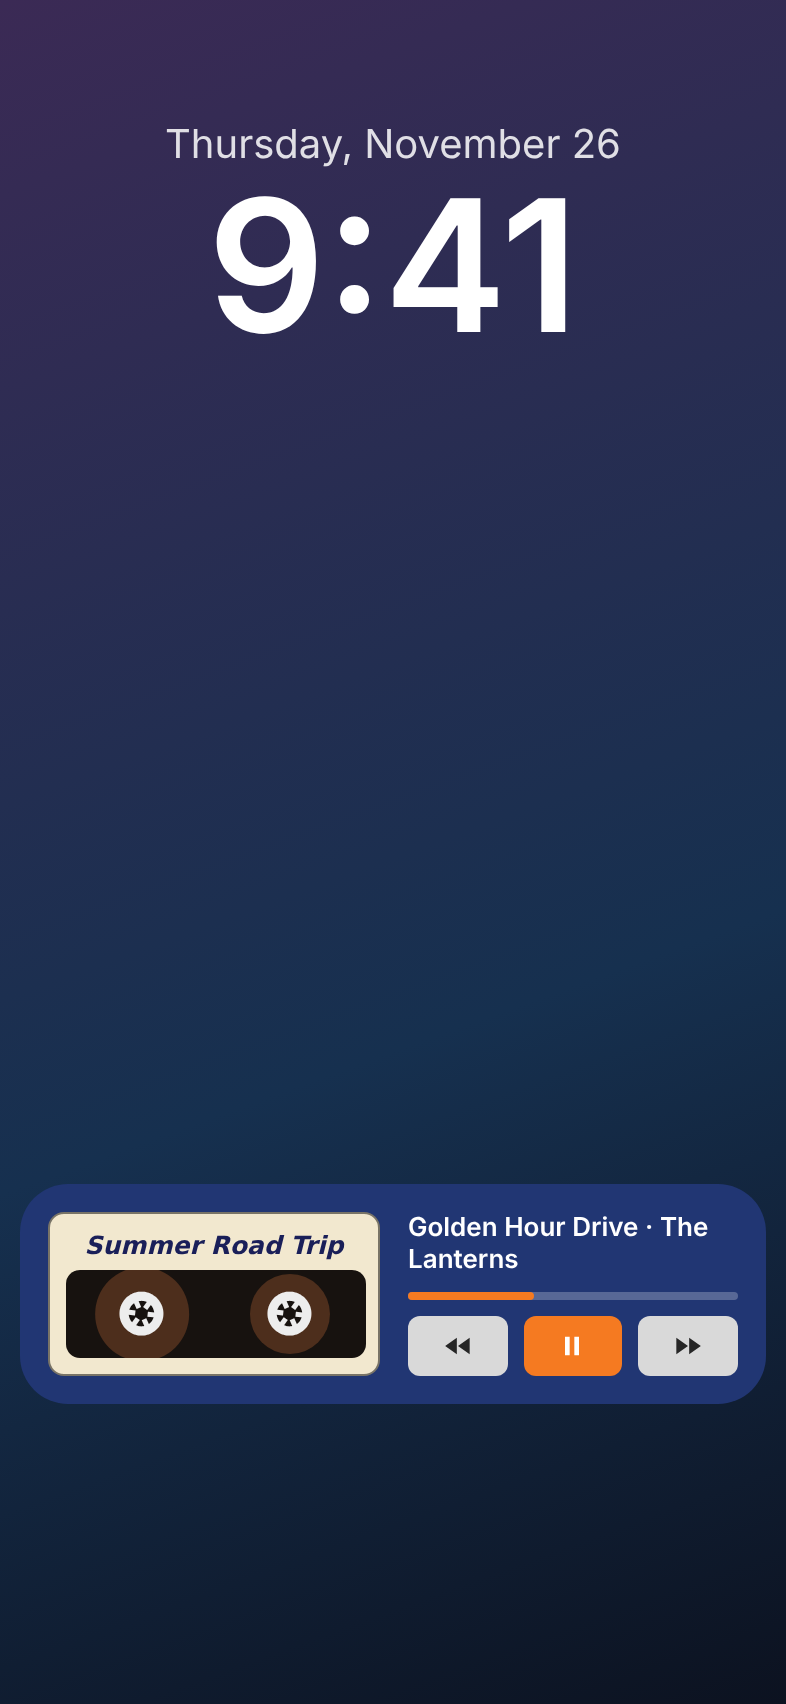
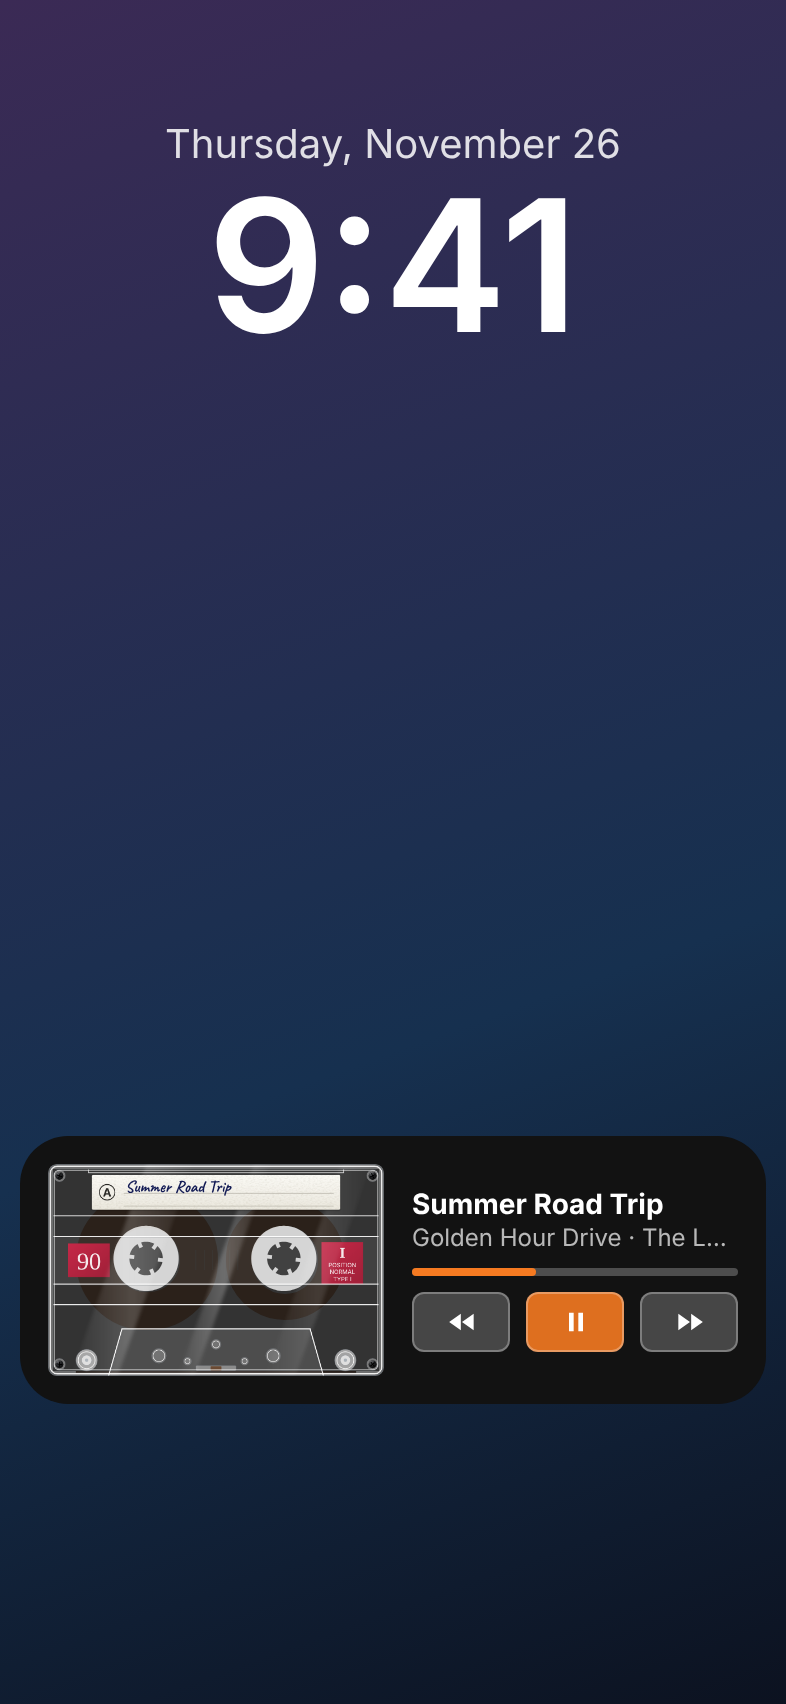
Match the lock screen tape to the clear cassette
The Live Activity now draws the clear shell artwork over ring-shaped
tape packs, and the reel font's hub has the clear hub's teeth and
pockets.

Claude-Session: https://claude.ai/code/session_015CNmSEpanpmujmbPK8yXHv

Changed region(s): [[0.0, 0.6532, 0.9771, 0.8398]]

diff --git a/TapeDeckWidgets/TapeDeckWidgets.swift b/TapeDeckWidgets/TapeDeckWidgets.swift
@@ -11,13 +11,10 @@ struct TapeDeckWidgets: WidgetBundle {
 }
 
 private enum Palette {
-    static let body = Color(red: 0.13, green: 0.21, blue: 0.45)
-    static let cream = Color(red: 0.95, green: 0.91, blue: 0.81)
-    static let ink = Color(red: 0.10, green: 0.12, blue: 0.35)
+    static let body = Color(white: 0.07)
+    static let ink = Color(red: 0.07, green: 0.10, blue: 0.33)
     static let orange = Color(red: 0.96, green: 0.48, blue: 0.13)
-    static let tape = Color(red: 0.30, green: 0.18, blue: 0.11)
-    static let dark = Color(red: 0.09, green: 0.07, blue: 0.06)
-    static let hub = Color(white: 0.93)
+    static let oxide = Color(red: 0.24, green: 0.18, blue: 0.14)
 }
 
 struct TapeLiveActivity: Widget {
@@ -30,9 +27,11 @@ struct TapeLiveActivity: Widget {
             DynamicIsland {
                 DynamicIslandExpandedRegion(.leading) {
                     ReelView(state: context.state, fill: 1 - context.state.progress, size: 46)
+                        .clipShape(Circle())
                 }
                 DynamicIslandExpandedRegion(.trailing) {
                     ReelView(state: context.state, fill: context.state.progress, size: 46)
+                        .clipShape(Circle())
                 }
                 DynamicIslandExpandedRegion(.center) {
                     VStack(spacing: 1) {
@@ -45,46 +44,34 @@ struct TapeLiveActivity: Widget {
                     TapeKeys(isPlaying: context.state.isPlaying)
                 }
             } compactLeading: {
-                ReelView(state: context.state, fill: 1 - context.state.progress, size: 22)
+                ReelView(state: context.state, fill: 0, size: 24)
             } compactTrailing: {
-                ReelView(state: context.state, fill: context.state.progress, size: 22)
+                ReelView(state: context.state, fill: 0, size: 24)
             } minimal: {
-                ReelView(state: context.state, fill: 0.5, size: 22)
+                ReelView(state: context.state, fill: 0, size: 24)
             }
         }
     }
 }
 
-/// The lock screen banner: a small cassette on the left, track and keys on the right.
+/// The lock screen banner: the clear cassette on the left, track and keys on the right.
 struct LockScreenTapeView: View {
     let state: TapeActivityAttributes.ContentState
 
     var body: some View {
         HStack(spacing: 14) {
-            VStack(spacing: 5) {
-                Text(state.title.isEmpty ? " " : state.title)
-                    .font(.custom("MarkerFelt-Wide", fixedSize: 15))
-                    .foregroundColor(Palette.ink)
-                    .lineLimit(1)
-                    .minimumScaleFactor(0.6)
-                HStack(spacing: 18) {
-                    ReelView(state: state, fill: 1 - state.progress, size: 56)
-                    ReelView(state: state, fill: state.progress, size: 56)
-                }
-                .frame(width: 150, height: 44)
-                .background(Palette.dark)
-                .clipShape(RoundedRectangle(cornerRadius: 7))
-            }
-            .padding(8)
-            .frame(width: 166)
-            .background(RoundedRectangle(cornerRadius: 8).fill(Palette.cream))
-            .overlay(RoundedRectangle(cornerRadius: 8).strokeBorder(Color.black.opacity(0.5), lineWidth: 1))
+            MiniCassette(state: state, width: 168)
 
             VStack(alignment: .leading, spacing: 8) {
-                Text(state.subtitle.isEmpty ? " " : state.subtitle)
-                    .font(.system(size: 13, weight: .semibold))
-                    .foregroundColor(.white)
-                    .lineLimit(2)
+                VStack(alignment: .leading, spacing: 1) {
+                    Text(state.title.isEmpty ? " " : state.title)
+                        .font(.system(size: 14, weight: .bold))
+                        .foregroundColor(.white)
+                    Text(state.subtitle.isEmpty ? " " : state.subtitle)
+                        .font(.system(size: 12))
+                        .foregroundColor(.white.opacity(0.7))
+                }
+                .lineLimit(1)
                 Group {
                     if state.isPlaying {
                         ProgressView(timerInterval: state.clock, countsDown: false,
@@ -102,23 +89,64 @@ struct LockScreenTapeView: View {
     }
 }
 
-/// One reel: the wound tape, with a hub that steps round once a second.
+/// The clear cassette, small. Same construction as the one in the app: a
+/// faint shell, the two tape packs with their hubs, then the see-through
+/// artwork of the shell front, then the handwriting on the label.
+/// Measurements are in millimetres of a 100 x 63 mm shell.
+struct MiniCassette: View {
+    let state: TapeActivityAttributes.ContentState
+    var width: CGFloat
+
+    var body: some View {
+        let u = width / 100
+        ZStack {
+            RoundedRectangle(cornerRadius: 2.6 * u)
+                .fill(Color.white.opacity(0.14))
+            ZStack {
+                ReelView(state: state, fill: 1 - state.progress, size: 50 * u)
+                    .position(x: 29.5 * u, y: 28.5 * u)
+                ReelView(state: state, fill: state.progress, size: 50 * u)
+                    .position(x: 70.5 * u, y: 28.5 * u)
+            }
+            .frame(width: 100 * u, height: 63 * u)
+            .clipShape(RoundedRectangle(cornerRadius: 2.6 * u))
+
+            Image("CassetteFrontSmall")
+                .resizable()
+                .interpolation(.high)
+
+            Text(state.title.isEmpty ? " " : state.title)
+                .font(.custom("BradleyHandITCTT-Bold", fixedSize: 4.5 * u))
+                .foregroundColor(Palette.ink.opacity(0.92))
+                .lineLimit(1)
+                .minimumScaleFactor(0.5)
+                .frame(width: 62 * u, height: 5.0 * u, alignment: .bottomLeading)
+                .position(x: 54 * u, y: 6.3 * u)
+        }
+        .frame(width: 100 * u, height: 63 * u)
+        .accessibilityHidden(true)
+    }
+}
+
+/// One reel: a ring of wound tape around a clear hub that steps round once a
+/// second. `size` is the diameter of a full reel; the hub is two fifths of it.
 struct ReelView: View {
     let state: TapeActivityAttributes.ContentState
     /// 0 for an empty reel, 1 for a full one.
     var fill: Double
-    /// Diameter of a full reel.
     var size: CGFloat
 
     var body: some View {
         let hub = size * 0.40
         let full = size / 2
-        let bare = hub / 2 + size * 0.03
+        let bare = hub / 2
         let clamped = CGFloat(min(max(fill, 0), 1))
-        let pack = 2 * (bare * bare + clamped * (full * full - bare * bare)).squareRoot()
+        let radius = (bare * bare + clamped * (full * full - bare * bare)).squareRoot() + size * 0.01
         ZStack {
-            Circle().fill(Palette.tape).frame(width: pack, height: pack)
-            Circle().fill(Palette.dark).frame(width: hub * 0.9, height: hub * 0.9)
+            // Wound tape, as a ring: the hub in the middle is clear
+            Circle()
+                .strokeBorder(Palette.oxide, lineWidth: max(0, radius - bare * 0.96))
+                .frame(width: 2 * radius, height: 2 * radius)
             // The TapeReels font draws every digit as a hub at a different angle,
             // so the last digit of a running timer is a turning hub. Showing just
             // that digit means pinning the text to the right and clipping the rest.
@@ -130,7 +158,7 @@ struct ReelView: View {
                 }
             }
             .font(.custom("TapeReels", fixedSize: hub))
-            .foregroundColor(Palette.hub)
+            .foregroundColor(Color.white.opacity(0.78))
             .multilineTextAlignment(.trailing)
             .lineLimit(1)
             .fixedSize()
@@ -166,10 +194,12 @@ struct TapeKeys: View {
     private func key(_ symbol: String, accent: Bool) -> some View {
         Image(systemName: symbol)
             .font(.system(size: 14, weight: .bold))
-            .foregroundColor(accent ? .white : Color(white: 0.15))
+            .foregroundColor(.white)
             .frame(maxWidth: .infinity)
             .frame(height: 30)
-            .background(RoundedRectangle(cornerRadius: 6).fill(accent ? Palette.orange : Color(white: 0.85)))
+            .background(RoundedRectangle(cornerRadius: 6)
+                .fill(accent ? Palette.orange.opacity(0.9) : Color.white.opacity(0.22)))
+            .overlay(RoundedRectangle(cornerRadius: 6).strokeBorder(Color.white.opacity(0.3), lineWidth: 0.75))
     }
 }
 

diff --git a/tools/cassette-art.html b/tools/cassette-art.html
@@ -4,7 +4,9 @@
                    label strip, rollers, screws and reflections (the plastic itself is see-through)
      ?layer=hub    one clear reel hub -->
 <html><body style="margin:0;background:transparent"><script>
-const layer = new URLSearchParams(location.search).get('layer') || 'front';
+const query = new URLSearchParams(location.search);
+const layer = query.get('layer') || 'front';
+const W = Number(query.get('w')) || 1500; // output width in pixels
 const screw = (x, y, a) => `
   <g transform="translate(${x} ${y})">
     <circle r="1.75" fill="#fff" fill-opacity=".35" stroke="#7b838b" stroke-opacity=".5" stroke-width=".12"/>
@@ -25,7 +27,7 @@ const ring = (x, y, r) => `
   <circle cx="${x}" cy="${y}" r="${r}" fill="#fff" fill-opacity=".22" stroke="#78808a" stroke-opacity=".45" stroke-width=".14"/>
   <circle cx="${x}" cy="${y}" r="${r - .45}" fill="none" stroke="#fff" stroke-opacity=".85" stroke-width=".2"/>`;
 const front = `
-<svg xmlns="http://www.w3.org/2000/svg" viewBox="0 0 100 63" width="1500" height="945">
+<svg xmlns="http://www.w3.org/2000/svg" viewBox="0 0 100 63" width="${W}" height="${W * 0.63}">
 <defs>
   <radialGradient id="blackmetal" cx=".35" cy=".3" r=".9"><stop offset="0" stop-color="#5a5c60"/><stop offset=".5" stop-color="#1b1c1e"/><stop offset="1" stop-color="#050505"/></radialGradient>
   <linearGradient id="streak" x1="0" y1="0" x2="1" y2="0"><stop offset="0" stop-color="#fff" stop-opacity="0"/><stop offset=".5" stop-color="#fff" stop-opacity=".34"/><stop offset="1" stop-color="#fff" stop-opacity="0"/></linearGradient>

diff --git a/tools/render-art.js b/tools/render-art.js
@@ -9,10 +9,12 @@ const path = require('path');
   const browser = await chromium.launch();
   for (const [layer, w, h, file] of [
     ['front', 1500, 945, 'CassetteFront.imageset/cassette-front.png'],
+    // a small copy for the lock screen, where large images are refused
+    ['front', 600, 378, '../../TapeDeckWidgets/Assets.xcassets/CassetteFrontSmall.imageset/cassette-front-small.png'],
     ['hub', 480, 480, 'ReelHub.imageset/reel-hub.png'],
   ]) {
     const tab = await browser.newPage({ viewport: { width: w, height: h }, deviceScaleFactor: 1 });
-    await tab.goto(page + '?layer=' + layer);
+    await tab.goto(page + '?layer=' + layer + '&w=' + w);
     await tab.screenshot({ path: path.join(out, file), omitBackground: true });
     await tab.close();
   }

diff --git a/tools/make_reel_font.py b/tools/make_reel_font.py
@@ -4,7 +4,8 @@ Lock screen widgets cannot run animations, but a timer text redraws itself every
 second. In this font each digit is a picture of a cassette hub, and each digit is
 turned 18 degrees further than the one before. A timer shown in this font, cut
 down to its last digit, is therefore a hub that steps round once a second. The
-hub has six teeth, so after ten steps (180 degrees) it lines up with the start.
+hub has six teeth and eight pockets, so after ten steps (180 degrees) it lines
+up with the start. The shape matches the clear hub in tools/cassette-art.html.
 
 Run:  python3 tools/make_reel_font.py
 """
@@ -14,7 +15,8 @@ from fontTools.pens.ttGlyphPen import TTGlyphPen
 
 EM = 1000
 CENTER = 500
-OUTER, INNER, TOOTH_TIP, TOOTH_HALF_WIDTH = 490, 285, 150, 55
+OUTER, INNER, TOOTH_TIP, TOOTH_HALF_WIDTH = 485, 250, 180, 28
+POCKET_RADIUS, POCKET_LONG, POCKET_SHORT = 372, 70, 44
 STEP_DEGREES = 18
 
 
@@ -45,6 +47,21 @@ def hub(rotation):
     for p in hole[1:]:
         pen.lineTo(p)
     pen.closePath()
+    # Eight oval pockets in the flange, counter clockwise like the hole.
+    for k in range(8):
+        turn = rotation + math.radians(12) + k * math.pi / 4
+        cx, cy = CENTER + POCKET_RADIUS * math.cos(turn), CENTER + POCKET_RADIUS * math.sin(turn)
+        oval = []
+        for i in range(16):
+            a = 2 * math.pi * i / 16
+            # long axis runs around the hub, short axis points at the centre
+            along, across = POCKET_LONG * math.cos(a), POCKET_SHORT * math.sin(a)
+            oval.append((round(cx - along * math.sin(turn) + across * math.cos(turn)),
+                         round(cy + along * math.cos(turn) + across * math.sin(turn))))
+        pen.moveTo(oval[0])
+        for p in oval[1:]:
+            pen.lineTo(p)
+        pen.closePath()
     return pen.glyph()
 
 

diff --git a/README.md b/README.md
@@ -12,7 +12,7 @@ A cassette player for Apple Music. Your playlists and albums are tapes on a shel
 * Open phone (a large, wide screen): the tape shelf on the left and the chosen tape on the right. Pick a tape, then close the phone to start it playing. The keys are there too, for screens that cannot fold.
 * The reels behave like a real tape. The left pack shrinks and the right one grows as the track plays, and each reel turns at the rate its pack size calls for.
 * Keys: REW and FF skip a track on a tap and wind the tape on a hold. PLAY and PAUSE latch down. STOP stops, and a second press ejects.
-* Lock screen tape: while a tape is in the deck, a Live Activity shows the cassette on the lock screen (and in the Dynamic Island) with previous, play / pause and next keys. The reels step round once a second, because iOS does not allow free running animation there. A tape left paused for ten minutes is taken off the lock screen.
+* Lock screen tape: while a tape is in the deck, a Live Activity shows the same clear cassette on the lock screen (and its reels in the Dynamic Island) with previous, play / pause and next keys. The hubs step round once a second, because iOS does not allow free running animation there. A tape left paused for ten minutes is taken off the lock screen.
 * Tape deck sounds: key clunks, door and eject, tape hiss while playing, motor whir while winding. They are generated in code and mix over the music. The speaker button on the deck turns them off. They are not muted by the silent switch, because the app has to hold a playback audio session to stay awake behind the lock screen.
 
 ## Running it on your iPhone
